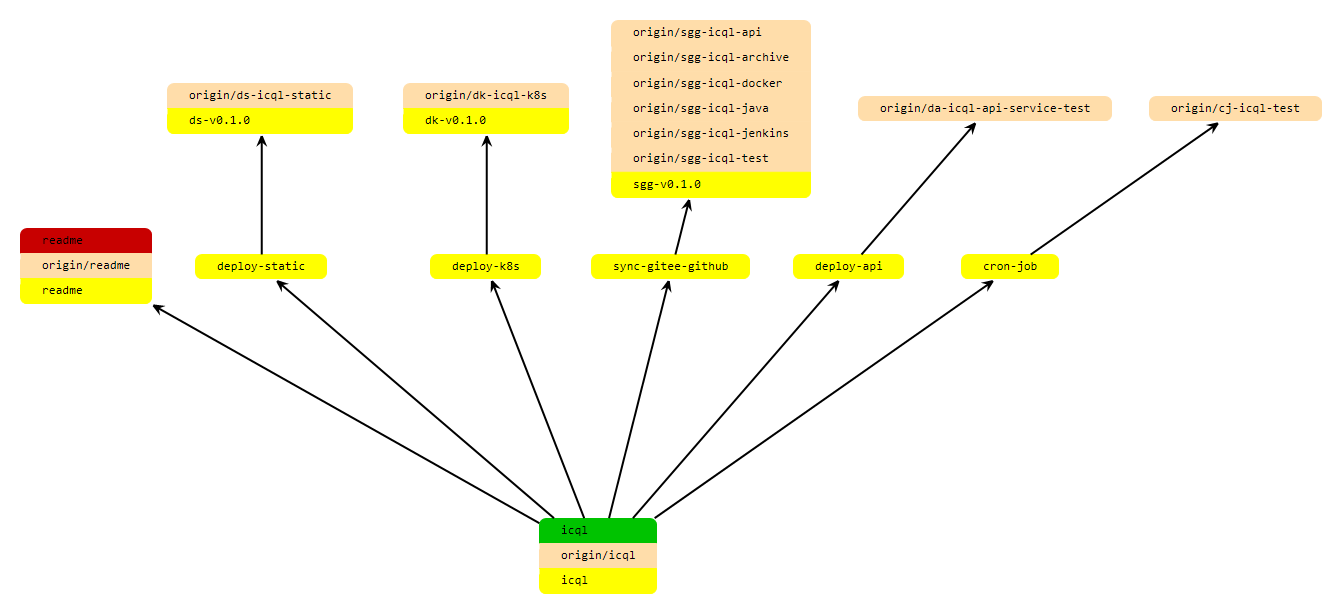
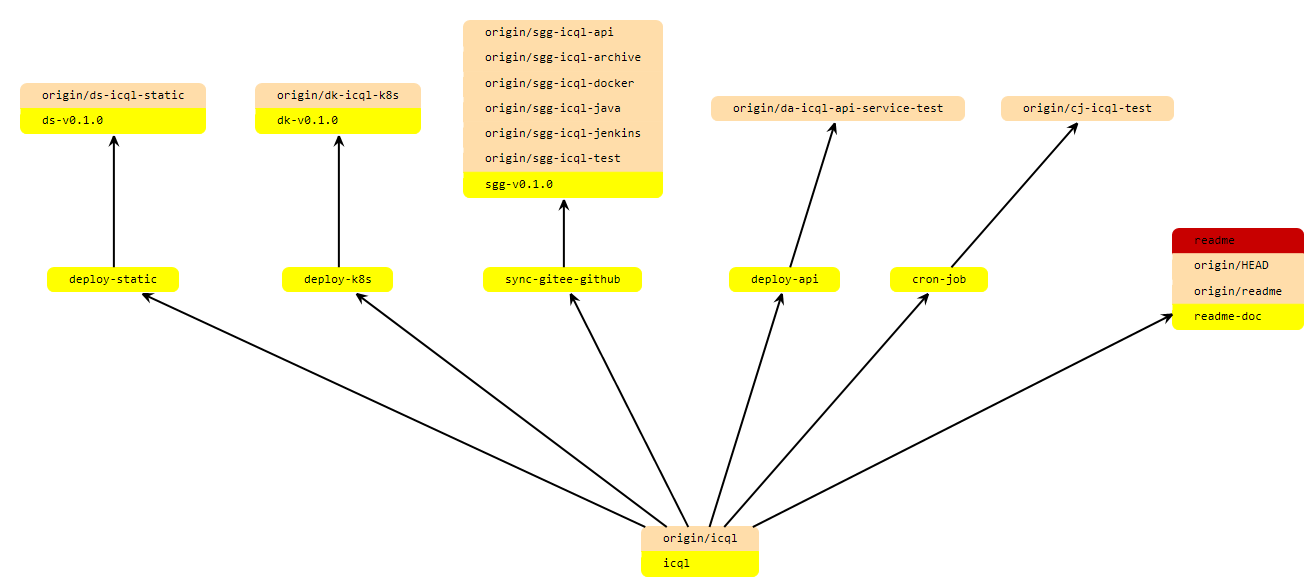
更新readme

diff --git a/README.md b/README.md
@@ -7,7 +7,7 @@ https://devops.jenkins.icql.work
 readme文档分支，其余每条线均是单独的多分支流水线
 ``` bash
 ├──master
-	├──readme（文档）
+	├──readme-doc（文档）
 	├──sync-gitee-github（gitee-github仓库同步）
 	├──deploy-k8s（k8s通用资源部署）
 	├──deploy-static（k8s静态资源部署）
